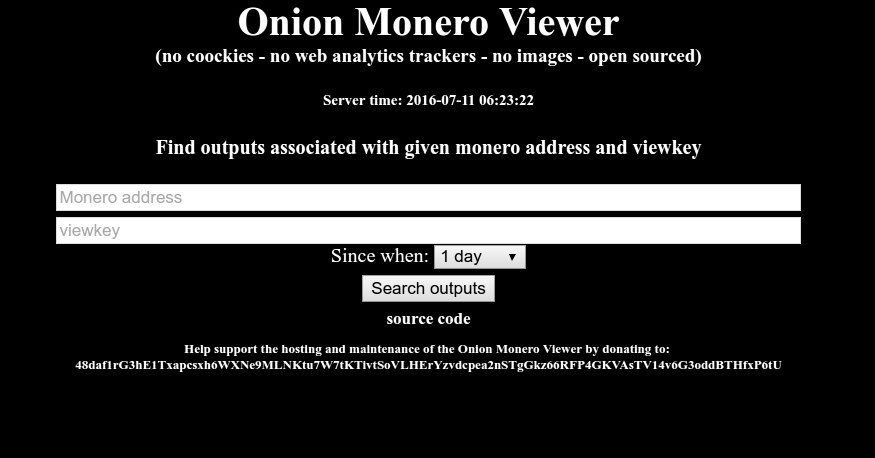
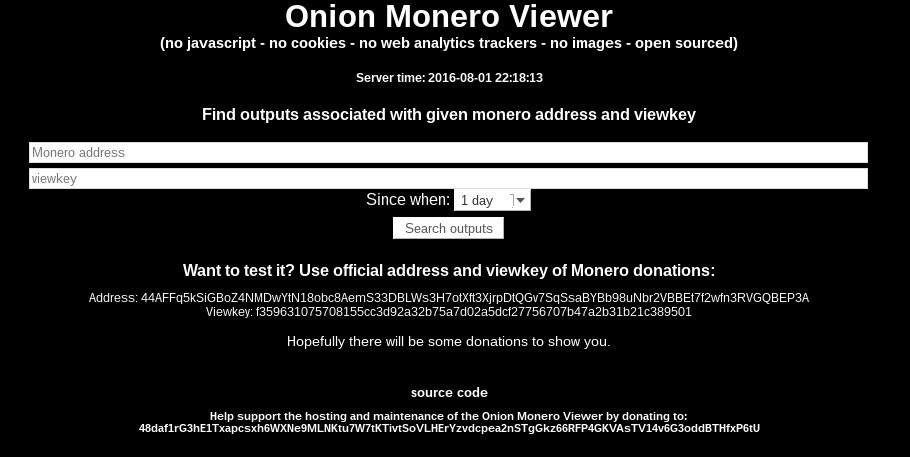
new screenshots added

Changed region(s): [[0.0309, 0.3063, 0.9566, 0.9497], [0.1543, 0.0, 0.8331, 0.2757]]

diff --git a/README.md b/README.md
@@ -40,7 +40,7 @@ The key features of the Onion Monero Viewer are:
  - no web analytics trackers, no images, co cookies
  - open sourced,
  - made fully in C++,
- 
+
 ## Prerequisite
 
 Everything here was done and tested using Monero 0.9.4 on Ubuntu 16.04 x86_64.
@@ -60,6 +60,7 @@ as shown here:
 
 ![Onion Monero Viewer](https://raw.githubusercontent.com/moneroexamples/onion-monero-viewer/master/screenshot/screenshot2.jpg)
 
+![Onion Monero Viewer](https://raw.githubusercontent.com/moneroexamples/onion-monero-viewer/master/screenshot/screenshot3.jpg)
 
 ## Compile and run the viewer
 
@@ -80,7 +81,7 @@ The Onion Explorer uses Monero C++ libraries and headers. Also some functionalit
 Most unique search abilities of the Onion Viewer are achieved through using
 a [custom lmdb database](https://github.com/moneroexamples/lmdbcpp-monero.git) constructed based on the Monero blockchain.
 The reason for the custom database is that Monero's own lmdb database has limited
-search abilities. 
+search abilities.
 
 Instruction how to compile the `lmdbcpp-monero` are provided here:
 
@@ -131,7 +132,7 @@ Go to your browser: http://127.0.0.1:8081
 ## Testing address and viewkey
 
 For testing of the viewer, one can use [official address and viewkey](https://github.com/monero-project/bitmonero#supporting-the-project)
-of the Monero, i.e., 
+of the Monero, i.e.,
 
 - Address: 44AFFq5kSiGBoZ4NMDwYtN18obc8AemS33DBLWs3H7otXft3XjrpDtQGv7SqSsaBYBb98uNbr2VBBEt7f2wfn3RVGQBEP3A
 - Viewkey: f359631075708155cc3d92a32b75a7d02a5dcf27756707b47a2b31b21c389501
